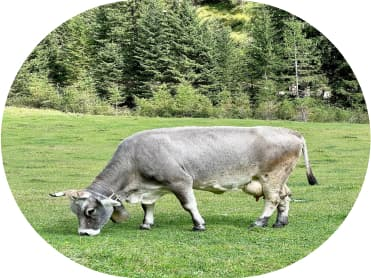
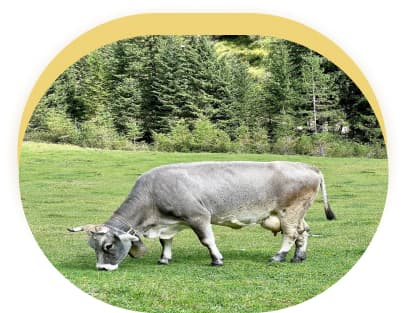
change photo

diff --git a/src/partials/about.html b/src/partials/about.html
@@ -1,26 +1,11 @@
-<section class="About">
+<section class="about">
   <div class="container">
-    <p>tradition and love</p>
+    <p class="about-pre-title">tradition and love</p>
     <h2 class="section-title">how it’s made?</h2>
     <div class="about-wrap">
-      <div>
-        <div class="about-circle">
-          <img
-            srcset="
-              ./images/circlemob1x.jpg   370w,
-              ./images/circlemob2x.jpg   740w,
-              ./images/circletab1x.jpg   336w,
-              ./images/circletab2x.jpg   672w,
-              ./images/circledesk1x.jpg  500w,
-              ./images/circledesk2x.jpg 1000w
-            "
-            sizes="(min-width:1200px) 500px, (min-width:768px) 336px, (min-width:480px) 370px, 100vw"
-            src="images/circlemob1x.jpg"
-            alt="Circle"
-          />
-        </div>
-        <div class="about-cow">
-          <img
+      
+                
+          <img class="about-cow"
             srcset="
               ./images/cowmob1x.jpg   370w,
               ./images/cowmob2x.jpg   740w,
@@ -30,25 +15,24 @@
               ./images/cowdesk2x.jpg 1000w
             "
             sizes="(min-width:1200px) 500px, (min-width:768px) 336px, (min-width:480px) 370px, 100vw"
-            src="images/cowmob1x.jpg"
+            src="images/cowdesk1x.jpg"
             alt="Cow"
           />
-        </div>
-      </div>
+      
       <div>
-        <p>
+        <p class="about-text first">
           Ice is a place where you will become not only a little happier, but also
           healthier. Health is the main value for us, and we follow it when creating
           our handmade desserts.
         </p>
-        <p>
+        <p class="about-text">
           We use traditional recipes and 100% natural ingredients. Our products are
           so natural that they can be given to children from the age of three years.
           Sweets lovers can expect 55 types of ice cream, 15 types of coffee and 23
           milkshakes.
         </p>
-        <p>This is enough to choose ice cream and coffee for any mood!</p>
-        <button type="button" class="button" data-modal-open>Read more ></button>
+        <p class="about-text last">This is enough to choose ice cream and coffee for any mood!</p>
+        <button type="button" class="about-button" data-modal-open>Read more ></button>
       </div>
     </div>
   </div>

diff --git a/src/sass/_about.scss b/src/sass/_about.scss
@@ -1,0 +1,78 @@
+
+.about{
+    background-color: var(--bg-color);
+    padding: 61px 0;
+}
+
+.about-pre-title{
+
+        font-weight: 700;
+font-size: 18px;
+line-height: 1.22;
+
+text-align: center;
+text-transform: uppercase;
+
+color: var(--main-text-color);
+margin: 0 auto;
+margin-bottom: 12px;
+}
+
+.section-title{
+    font-family: 'Seymour One';
+font-style: normal;
+font-weight: 400;
+font-size: 30px;
+line-height: 38px;
+text-align: center;
+letter-spacing: 0.04em;
+text-transform: uppercase;
+
+color: var(--main-text-color);
+margin: 0 auto;
+margin-bottom: 70px;
+}
+
+.about-cow{
+    
+}
+
+.about-wrap{
+    // display: flex;
+}
+
+.about-text{
+    font-style: normal;
+font-weight: 400;
+font-size: 12px;
+line-height: 1.76;
+
+text-align: center;
+letter-spacing: 0.04em;
+
+color: var(--main-text-color);
+margin: 0 auto;
+}
+
+.about-text.first{
+    padding-bottom: 30px;
+    margin-bottom: 4px;
+}
+
+.about-text.last{
+    display: none;
+}
+
+.about-button{
+    
+    font-style: normal;
+font-weight: 600;
+font-size: 14px;
+line-height: 1.29;
+
+display: flex;
+align-items: center;
+text-align: center;
+
+color: #000000;
+}

diff --git a/src/index.html b/src/index.html
@@ -17,11 +17,11 @@
 <body>
 
 
-<include src='./partials/example.html'></include>
+
 <include src='./partials/about.html'></include>
 <include src='./partials/advantage.html'></include>
 
-  <include src='./partials/contacts.html'></include>
+  
 
 
 </body>

diff --git a/src/sass/index.scss b/src/sass/index.scss
@@ -2,3 +2,5 @@
 @import './base';
 @import './contacts';
 @import './variables';
+@import './about';
+@import './advantage';
